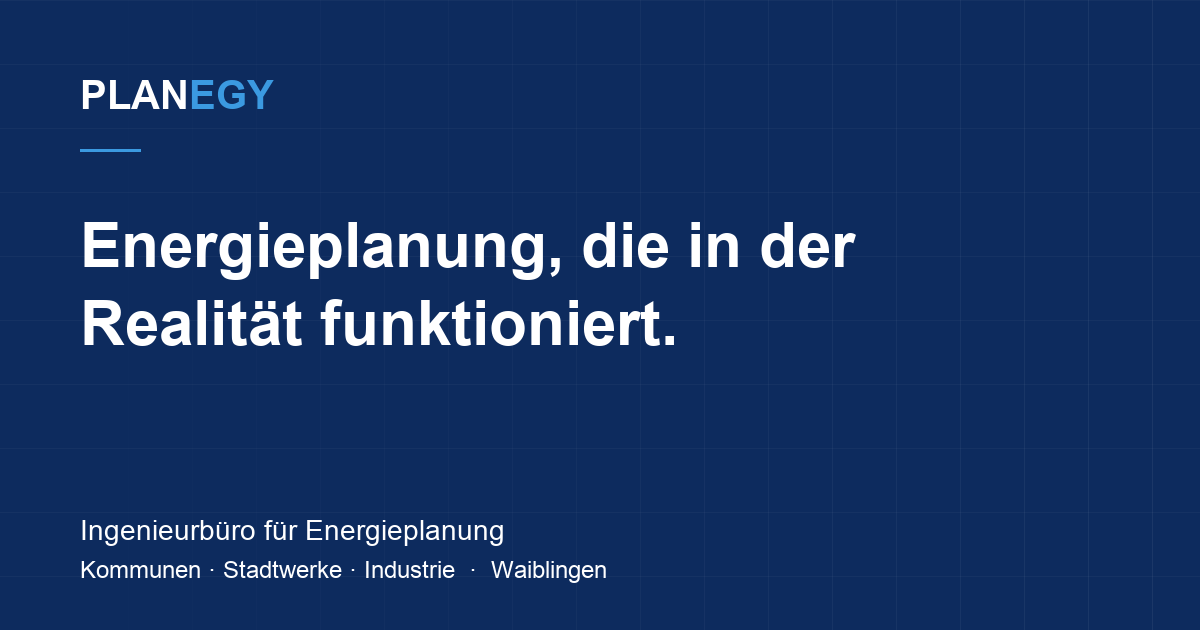
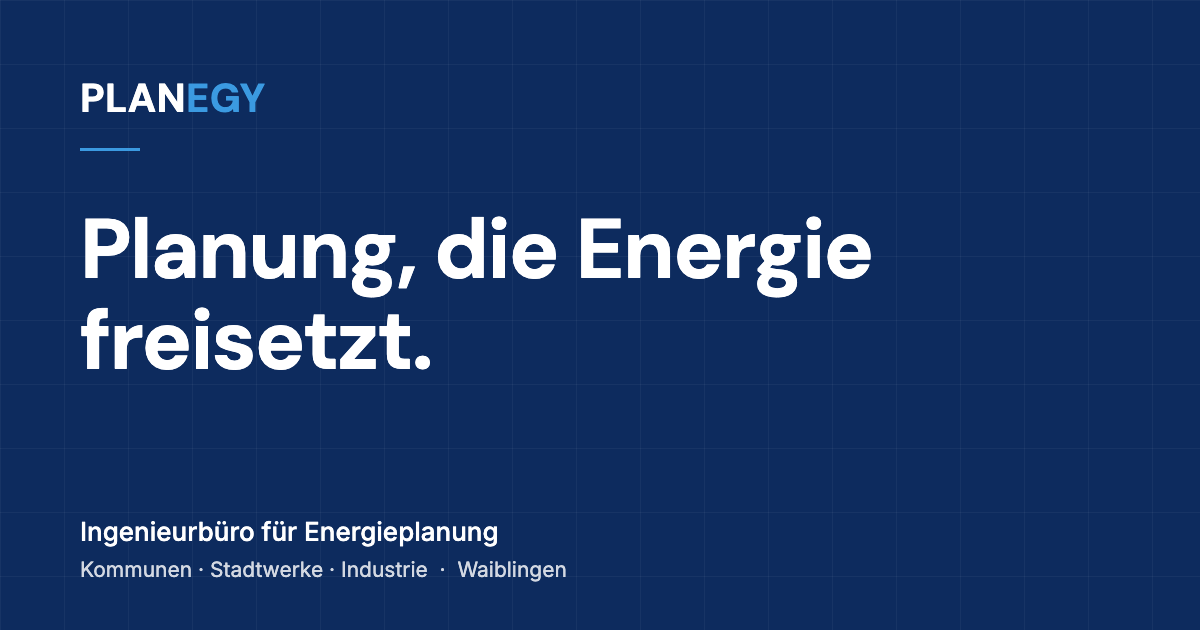
Claim vereinheitlicht: "Planung, die Energie freisetzt"
H1 der Startseite, og:image:alt auf allen Seiten, llms.txt und Vorschaubild.

Changed region(s): [[0.0617, 0.3317, 0.74, 0.6032], [0.0617, 0.8143, 0.4933, 0.9349], [0.0617, 0.1206, 0.2467, 0.181]]

diff --git a/index.html b/index.html
@@ -17,7 +17,7 @@
   <meta property="og:image" content="https://planegy.de/assets/og-planegy.png" />
   <meta property="og:image:width" content="1200" />
   <meta property="og:image:height" content="630" />
-  <meta property="og:image:alt" content="PLANEGY – Energieplanung, die in der Realität funktioniert." />
+  <meta property="og:image:alt" content="PLANEGY – Planung, die Energie freisetzt." />
   <meta name="twitter:card" content="summary_large_image" />
   <meta name="twitter:title" content="Ingenieurbüro für Energieplanung | PLANEGY, Waiblingen" />
   <meta name="twitter:description" content="Technologieoffene Energieplanung für Kommunen, Stadtwerke und Industrie – Analyse, Wirtschaftlichkeit, Genehmigung, Umsetzung. Über 20 Jahre Erfahrung." />
@@ -251,7 +251,7 @@
   <section class="hero">
     <div class="wrap">
       <span class="eyebrow">Ingenieurbüro für Energieplanung</span>
-      <h1>Energieplanung, die in der Realität funktioniert.</h1>
+      <h1>Planung, die Energie freisetzt.</h1>
       <p class="lead">
         PLANEGY ist ein Ingenieurbüro für Energieplanung in Waiblingen (Baden-Württemberg). Wir
         entwickeln technologieoffene Energielösungen für Kommunen, Stadtwerke und Industrie – von der

diff --git a/ueber-planegy.html b/ueber-planegy.html
@@ -16,7 +16,7 @@
   <meta property="og:image" content="https://planegy.de/assets/og-planegy.png" />
   <meta property="og:image:width" content="1200" />
   <meta property="og:image:height" content="630" />
-  <meta property="og:image:alt" content="PLANEGY – Energieplanung, die in der Realität funktioniert." />
+  <meta property="og:image:alt" content="PLANEGY – Planung, die Energie freisetzt." />
   <meta name="twitter:card" content="summary_large_image" />
   <meta name="twitter:title" content="Über PLANEGY – Ingenieurbüro für Energieplanung | PLANEGY" />
   <meta name="twitter:description" content="PLANEGY ist das Ingenieurbüro von Alexios Donas in Waiblingen – über 20 Jahre Erfahrung, EUREM, Kommunaler Wärmemanager, gelistet im Expertenatlas BW." />

diff --git a/projekte.html b/projekte.html
@@ -16,7 +16,7 @@
   <meta property="og:image" content="https://planegy.de/assets/og-planegy.png" />
   <meta property="og:image:width" content="1200" />
   <meta property="og:image:height" content="630" />
-  <meta property="og:image:alt" content="PLANEGY – Energieplanung, die in der Realität funktioniert." />
+  <meta property="og:image:alt" content="PLANEGY – Planung, die Energie freisetzt." />
   <meta name="twitter:card" content="summary_large_image" />
   <meta name="twitter:title" content="Kommunaler Wärmeplan Grafenwiesen – Projekte | PLANEGY" />
   <meta name="twitter:description" content="Referenzprojekt: kommunaler Wärmeplan der Gemeinde Grafenwiesen nach § 22 WPG – Bestandsanalyse, Eignungsprüfung, Zielszenario 2040 und Maßnahmenkatalog." />

diff --git a/stadtwerke.html b/stadtwerke.html
@@ -16,7 +16,7 @@
   <meta property="og:image" content="https://planegy.de/assets/og-planegy.png" />
   <meta property="og:image:width" content="1200" />
   <meta property="og:image:height" content="630" />
-  <meta property="og:image:alt" content="PLANEGY – Energieplanung, die in der Realität funktioniert." />
+  <meta property="og:image:alt" content="PLANEGY – Planung, die Energie freisetzt." />
   <meta name="twitter:card" content="summary_large_image" />
   <meta name="twitter:title" content="Lösungen für Stadtwerke und Energieversorger | PLANEGY" />
   <meta name="twitter:description" content="Technische und wirtschaftliche Konzepte für Erzeugung, Wärmenetze und Energieinfrastruktur – belastbar für Investitionsentscheidungen bei Stadtwerken." />

diff --git a/kommunen.html b/kommunen.html
@@ -16,7 +16,7 @@
   <meta property="og:image" content="https://planegy.de/assets/og-planegy.png" />
   <meta property="og:image:width" content="1200" />
   <meta property="og:image:height" content="630" />
-  <meta property="og:image:alt" content="PLANEGY – Energieplanung, die in der Realität funktioniert." />
+  <meta property="og:image:alt" content="PLANEGY – Planung, die Energie freisetzt." />
   <meta name="twitter:card" content="summary_large_image" />
   <meta name="twitter:title" content="Kommunale Wärmeplanung nach WPG – für Kommunen | PLANEGY" />
   <meta name="twitter:description" content="Kommunale Wärmeplanung nach § 22 WPG: Bestandsanalyse, Eignungsprüfung, Zielszenario und Maßnahmenkatalog. Referenz Grafenwiesen, Bayern und BW." />

diff --git a/leistungen.html b/leistungen.html
@@ -16,7 +16,7 @@
   <meta property="og:image" content="https://planegy.de/assets/og-planegy.png" />
   <meta property="og:image:width" content="1200" />
   <meta property="og:image:height" content="630" />
-  <meta property="og:image:alt" content="PLANEGY – Energieplanung, die in der Realität funktioniert." />
+  <meta property="og:image:alt" content="PLANEGY – Planung, die Energie freisetzt." />
   <meta name="twitter:card" content="summary_large_image" />
   <meta name="twitter:title" content="Leistungen: Wärmeplanung, Energieanlagen, Genehmigung | PLANEGY" />
   <meta name="twitter:description" content="Kommunale Wärmeplanung, Energieanlagen, Energieträger, BImSchG-Genehmigung, Energieeffizienz und ESG – die Leistungen von PLANEGY im Detail." />

diff --git a/industrie.html b/industrie.html
@@ -16,7 +16,7 @@
   <meta property="og:image" content="https://planegy.de/assets/og-planegy.png" />
   <meta property="og:image:width" content="1200" />
   <meta property="og:image:height" content="630" />
-  <meta property="og:image:alt" content="PLANEGY – Energieplanung, die in der Realität funktioniert." />
+  <meta property="og:image:alt" content="PLANEGY – Planung, die Energie freisetzt." />
   <meta name="twitter:card" content="summary_large_image" />
   <meta name="twitter:title" content="Energieberatung, Energieaudit und BImSchG für Industrie | PLANEGY" />
   <meta name="twitter:description" content="Energieaudit nach DIN EN 16247-1, ISO 50001, Eigenversorgung, Dekarbonisierung und BImSchG-Genehmigung für Industrie und Gewerbe." />

diff --git a/kontakt.html b/kontakt.html
@@ -16,7 +16,7 @@
   <meta property="og:image" content="https://planegy.de/assets/og-planegy.png" />
   <meta property="og:image:width" content="1200" />
   <meta property="og:image:height" content="630" />
-  <meta property="og:image:alt" content="PLANEGY – Energieplanung, die in der Realität funktioniert." />
+  <meta property="og:image:alt" content="PLANEGY – Planung, die Energie freisetzt." />
   <meta name="twitter:card" content="summary_large_image" />
   <meta name="twitter:title" content="Projekt besprechen – Kontakt | PLANEGY" />
   <meta name="twitter:description" content="Beschreiben Sie uns Ihre Ausgangssituation: Projektanfrage an PLANEGY zu Wärmeplanung, Energieanlagen, Genehmigung, Energieeffizienz oder Dekarbonisierung." />

diff --git a/fachwissen.html b/fachwissen.html
@@ -16,7 +16,7 @@
   <meta property="og:image" content="https://planegy.de/assets/og-planegy.png" />
   <meta property="og:image:width" content="1200" />
   <meta property="og:image:height" content="630" />
-  <meta property="og:image:alt" content="PLANEGY – Energieplanung, die in der Realität funktioniert." />
+  <meta property="og:image:alt" content="PLANEGY – Planung, die Energie freisetzt." />
   <meta name="twitter:card" content="summary_large_image" />
   <meta name="twitter:title" content="Fachwissen: Wärmeplanung, BImSchG, Energieaudit | PLANEGY" />
   <meta name="twitter:description" content="Fachbeiträge zu kommunaler Wärmeplanung, Energieanlagen, Genehmigungsverfahren, Energieaudits und ESG – geordnet nach Arbeitsfeldern." />

diff --git a/datenschutz.html b/datenschutz.html
@@ -16,7 +16,7 @@
   <meta property="og:image" content="https://planegy.de/assets/og-planegy.png" />
   <meta property="og:image:width" content="1200" />
   <meta property="og:image:height" content="630" />
-  <meta property="og:image:alt" content="PLANEGY – Energieplanung, die in der Realität funktioniert." />
+  <meta property="og:image:alt" content="PLANEGY – Planung, die Energie freisetzt." />
   <meta name="twitter:card" content="summary_large_image" />
   <meta name="twitter:title" content="Datenschutzerklärung | PLANEGY" />
   <meta name="twitter:description" content="Datenschutzerklärung von PLANEGY: Verantwortlicher, erhobene Daten, Kontaktformular, Chatbot, Hosting und Ihre Rechte nach DSGVO." />

diff --git a/impressum.html b/impressum.html
@@ -16,7 +16,7 @@
   <meta property="og:image" content="https://planegy.de/assets/og-planegy.png" />
   <meta property="og:image:width" content="1200" />
   <meta property="og:image:height" content="630" />
-  <meta property="og:image:alt" content="PLANEGY – Energieplanung, die in der Realität funktioniert." />
+  <meta property="og:image:alt" content="PLANEGY – Planung, die Energie freisetzt." />
   <meta name="twitter:card" content="summary_large_image" />
   <meta name="twitter:title" content="Impressum | PLANEGY" />
   <meta name="twitter:description" content="Impressum von PLANEGY – Alexios Donas, Ingenieurbüro für Energieplanung, Im Raisger 22, 71336 Waiblingen." />

diff --git a/danke.html b/danke.html
@@ -17,7 +17,7 @@
   <meta property="og:image" content="https://planegy.de/assets/og-planegy.png" />
   <meta property="og:image:width" content="1200" />
   <meta property="og:image:height" content="630" />
-  <meta property="og:image:alt" content="PLANEGY – Energieplanung, die in der Realität funktioniert." />
+  <meta property="og:image:alt" content="PLANEGY – Planung, die Energie freisetzt." />
   <meta name="twitter:card" content="summary_large_image" />
   <meta name="twitter:title" content="Anfrage eingegangen | PLANEGY" />
   <meta name="twitter:description" content="Ihre Projektanfrage an PLANEGY ist eingegangen." />
